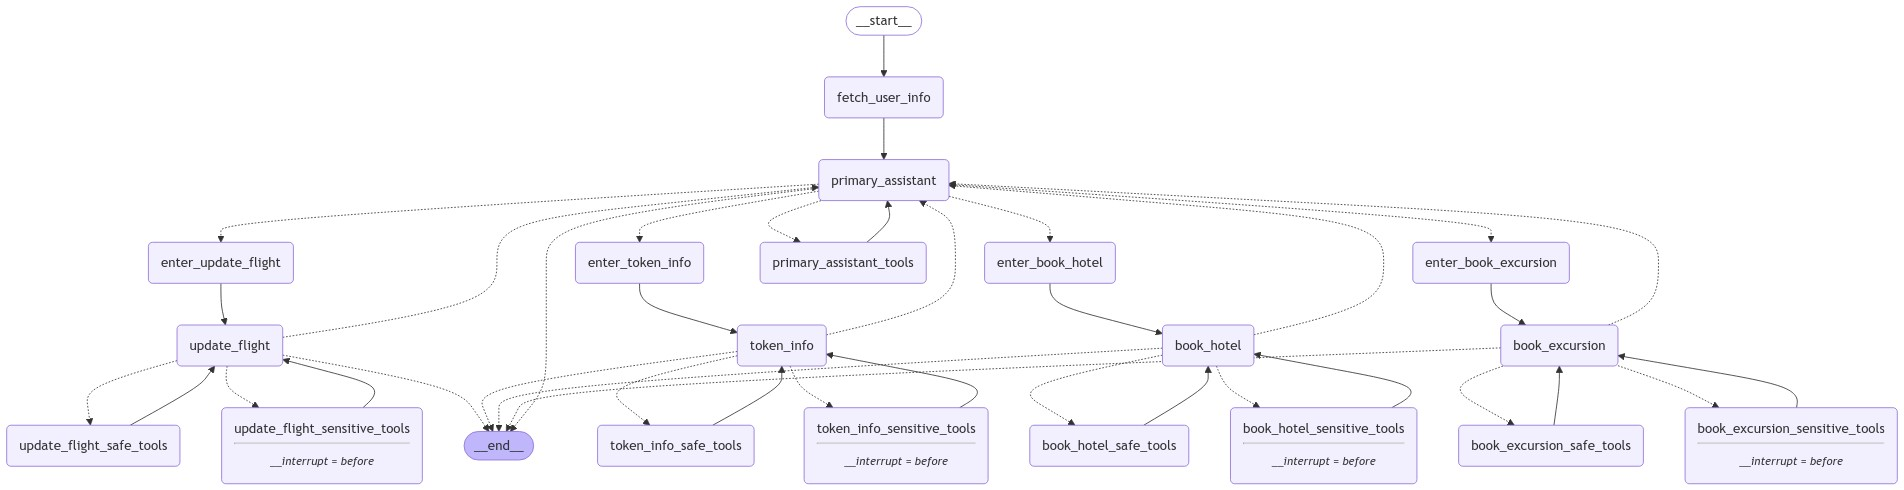
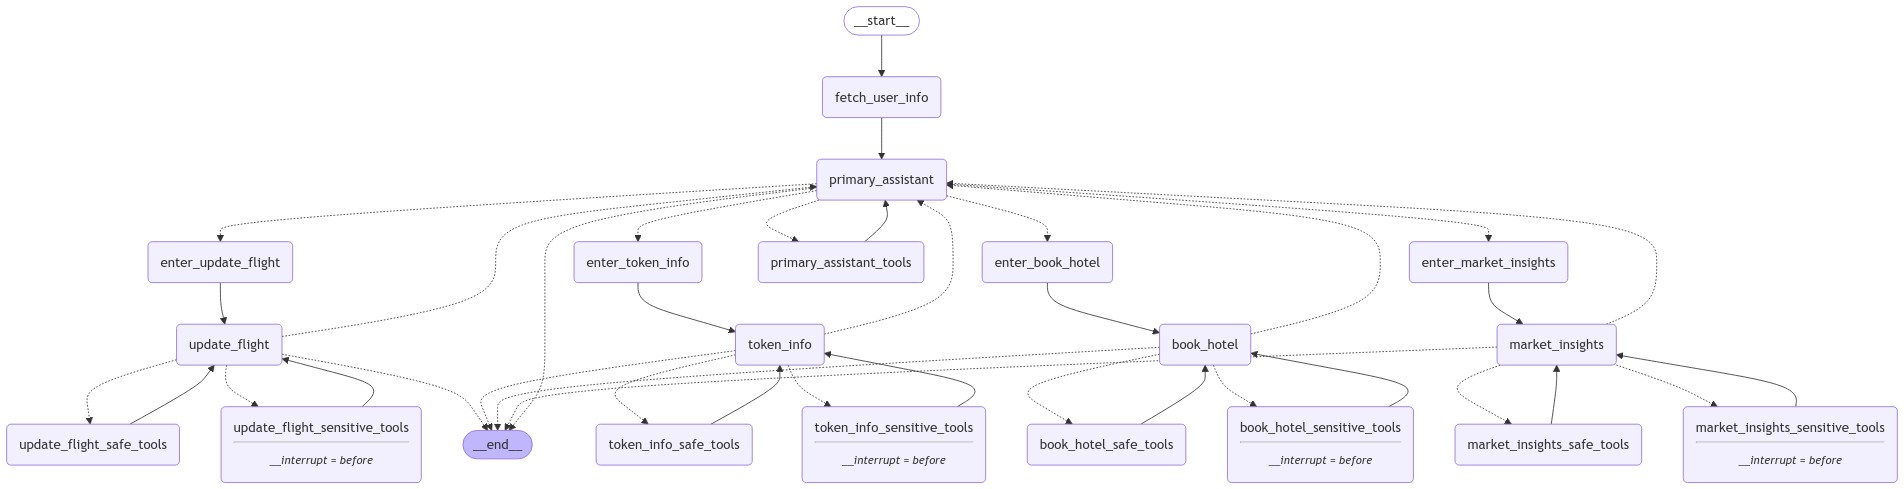
feat: from excursion assistant to market_insights_assistant

diff --git a/customer_support_chat/app/graph.py b/customer_support_chat/app/graph.py
@@ -21,8 +21,8 @@ from customer_support_chat.app.services.assistants.primary_assistant import (
   primary_assistant_tools,
   ToFlightBookingAssistant,
   ToHotelBookingAssistant,
-  ToBookExcursion,
   ToTokenInfoAssistant,
+  ToMarketInsightsAssistant,
 )
 from customer_support_chat.app.services.assistants.flight_booking_assistant import (
   flight_booking_assistant,
@@ -39,10 +39,10 @@ from customer_support_chat.app.services.assistants.hotel_booking_assistant impor
   book_hotel_safe_tools,
   book_hotel_sensitive_tools,
 )
-from customer_support_chat.app.services.assistants.excursion_assistant import (
-  excursion_assistant,
-  book_excursion_safe_tools,
-  book_excursion_sensitive_tools,
+from customer_support_chat.app.services.assistants.market_insights_assistant import (
+  market_insights_assistant,
+  market_insights_safe_tools,
+  market_insights_sensitive_tools,
 )
 
 # Initialize the graph
@@ -171,25 +171,25 @@ builder.add_edge("book_hotel_safe_tools", "book_hotel")
 builder.add_edge("book_hotel_sensitive_tools", "book_hotel")
 builder.add_conditional_edges("book_hotel", route_book_hotel)
 
-# Excursion Assistant
+# Market Insights Assistant
 builder.add_node(
-  "enter_book_excursion",
-  create_entry_node("Trip Recommendation Assistant", "book_excursion"),
+  "enter_market_insights",
+  create_entry_node("Market Insights Assistant", "market_insights"),
 )
-builder.add_node("book_excursion", excursion_assistant)
-builder.add_edge("enter_book_excursion", "book_excursion")
+builder.add_node("market_insights", market_insights_assistant)
+builder.add_edge("enter_market_insights", "market_insights")
 builder.add_node(
-  "book_excursion_safe_tools",
-  create_tool_node_with_fallback(book_excursion_safe_tools),
+  "market_insights_safe_tools",
+  create_tool_node_with_fallback(market_insights_safe_tools),
 )
 builder.add_node(
-  "book_excursion_sensitive_tools",
-  create_tool_node_with_fallback(book_excursion_sensitive_tools),
+  "market_insights_sensitive_tools",
+  create_tool_node_with_fallback(market_insights_sensitive_tools),
 )
 
-def route_book_excursion(state: State) -> Literal[
-  "book_excursion_safe_tools",
-  "book_excursion_sensitive_tools",
+def route_market_insights(state: State) -> Literal[
+  "market_insights_safe_tools",
+  "market_insights_sensitive_tools",
   "primary_assistant",
   "__end__",
 ]:
@@ -200,14 +200,14 @@ def route_book_excursion(state: State) -> Literal[
   did_cancel = any(tc["name"] == CompleteOrEscalate.__name__ for tc in tool_calls)
   if did_cancel:
       return "primary_assistant"
-  safe_toolnames = [t.name for t in book_excursion_safe_tools]
+  safe_toolnames = [t.name for t in market_insights_safe_tools]
   if all(tc["name"] in safe_toolnames for tc in tool_calls):
-      return "book_excursion_safe_tools"
-  return "book_excursion_sensitive_tools"
+      return "market_insights_safe_tools"
+  return "market_insights_sensitive_tools"
 
-builder.add_edge("book_excursion_safe_tools", "book_excursion")
-builder.add_edge("book_excursion_sensitive_tools", "book_excursion")
-builder.add_conditional_edges("book_excursion", route_book_excursion)
+builder.add_edge("market_insights_safe_tools", "market_insights")
+builder.add_edge("market_insights_sensitive_tools", "market_insights")
+builder.add_conditional_edges("market_insights", route_market_insights)
 
 # Primary Assistant
 builder.add_node("primary_assistant", primary_assistant)
@@ -221,7 +221,7 @@ def route_primary_assistant(state: State) -> Literal[
   "enter_update_flight",
   "enter_token_info",
   "enter_book_hotel",
-  "enter_book_excursion",
+  "enter_market_insights",
   "__end__",
 ]:
   route = tools_condition(state)
@@ -236,8 +236,8 @@ def route_primary_assistant(state: State) -> Literal[
           return "enter_token_info"
       elif tool_name == ToHotelBookingAssistant.__name__:
           return "enter_book_hotel"
-      elif tool_name == ToBookExcursion.__name__:
-          return "enter_book_excursion"
+      elif tool_name == ToMarketInsightsAssistant.__name__:
+          return "enter_market_insights"
       else:
           return "primary_assistant_tools"
   return "primary_assistant"
@@ -249,7 +249,7 @@ builder.add_conditional_edges(
       "enter_update_flight": "enter_update_flight",
       "enter_token_info": "enter_token_info",
       "enter_book_hotel": "enter_book_hotel",
-      "enter_book_excursion": "enter_book_excursion",
+      "enter_market_insights": "enter_market_insights",
       "primary_assistant_tools": "primary_assistant_tools",
       END: END,
   },
@@ -261,7 +261,7 @@ interrupt_nodes = [
   "update_flight_sensitive_tools",
   "token_info_sensitive_tools",
   "book_hotel_sensitive_tools",
-  "book_excursion_sensitive_tools",
+  "market_insights_sensitive_tools",
 ]
 
 memory = MemorySaver()

diff --git a/customer_support_chat/app/services/tools/market_insights.py b/customer_support_chat/app/services/tools/market_insights.py
@@ -1,0 +1,49 @@
+from vectorizer.app.vectordb.vectordb import VectorDB
+from customer_support_chat.app.core.settings import get_settings
+from langchain_core.tools import tool
+import requests
+from typing import List, Dict
+import requests
+
+settings = get_settings()
+market_insights_vectordb = VectorDB(table_name="market_insights", collection_name="market_insights_collection")
+
+@tool
+def search_market_insights(
+    query: str,
+    limit: int = 2,
+) -> List[Dict]:
+    """Search for market insights based on a natural language query."""
+    search_results = market_insights_vectordb.search(query, limit=limit)
+
+    insights = []
+    for result in search_results:
+        payload = result.payload
+        insights.append({
+            "id": payload["id"],
+            "title": payload["title"],
+            "category": payload["category"],
+            "keywords": payload["keywords"],
+            "summary": payload["summary"],
+            "chunk": payload["content"],
+            "similarity": result.score,
+        })
+    return insights
+
+@tool
+def get_news() -> dict:
+    """
+    Get the latest news
+    The news is global and is related to the crypto market
+    'project' field indicates the name of the project for each article, or says 'General News' if it is not related to a specific project
+    Each news article has a date it was published
+    If there is a URL link to the news article, relay it to the user
+    """
+    try:
+        req = requests.request("GET",
+                               "https://us-central1-third-opus-411016.cloudfunctions.net/SearchEngineApiV2/get_news")
+        resp = req.json()
+        return resp
+    except Exception as e:
+        print(e)
+        return {"description": "Error fetching news", "error": str(e)}

diff --git a/customer_support_chat/app/services/assistants/primary_assistant.py b/customer_support_chat/app/services/assistants/primary_assistant.py
@@ -8,6 +8,7 @@ from langchain_community.tools.ddg_search.tool import DuckDuckGoSearchResults
 from customer_support_chat.app.services.assistants.assistant_base import Assistant, llm
 from customer_support_chat.app.core.state import State
 from pydantic import BaseModel, Field
+from typing import Optional
 import yaml
 from pathlib import Path
 
@@ -28,10 +29,10 @@ class ToHotelBookingAssistant(BaseModel):
     checkout_date: str = Field(description="The check-out date for the hotel.")
     request: str = Field(description="Any additional information or requests from the user regarding the hotel booking.")
 
-class ToBookExcursion(BaseModel):
-    """Transfers work to a specialized assistant to handle trip recommendation and other excursion bookings."""
-    location: str = Field(description="The location where the user wants to book a recommended trip.")
-    request: str = Field(description="Any additional information or requests from the user regarding the trip recommendation.")
+class ToMarketInsightsAssistant(BaseModel):
+    """Transfers work to a specialized assistant to handle market insights and news related to the crypto market."""
+    query: str = Field(description="The user's query about market insights or crypto news.")
+    specific_token: Optional[str] = Field(default=None, description="The specific cryptocurrency token the user is interested in, if any.")
 
 # Load the system prompt from the YAML file
 prompt_path = Path(__file__).parent / "prompts" / "sp_primary_assistant.yml"
@@ -57,7 +58,7 @@ primary_assistant_tools = [
     ToFlightBookingAssistant,
     ToTokenInfoAssistant,
     ToHotelBookingAssistant,
-    ToBookExcursion,
+    ToMarketInsightsAssistant,
 ]
 
 # Create the primary assistant runnable

diff --git a/customer_support_chat/app/services/assistants/market_insights_assistant.py b/customer_support_chat/app/services/assistants/market_insights_assistant.py
@@ -1,0 +1,38 @@
+from datetime import datetime
+from langchain_core.prompts import ChatPromptTemplate
+from customer_support_chat.app.services.tools.market_insights import (
+    search_market_insights,
+    get_news,
+)
+from customer_support_chat.app.services.assistants.assistant_base import Assistant, CompleteOrEscalate, llm
+import yaml
+from pathlib import Path
+
+# Load the system prompt from the YAML file
+prompt_path = Path(__file__).parent / "prompts" / "sp_market_insights_assistant.yml"
+with open(prompt_path, "r") as f:
+    prompt_data = yaml.safe_load(f)
+
+# Market Insights assistant prompt
+market_insights_prompt = ChatPromptTemplate.from_messages(
+    [
+        (
+            "system",
+            prompt_data["system_prompt"],
+        ),
+        ("placeholder", "{messages}"),
+    ]
+).partial(time=datetime.now())
+
+# Market Insights tools
+market_insights_safe_tools = [search_market_insights, get_news]
+market_insights_sensitive_tools = []
+market_insights_tools = market_insights_safe_tools + market_insights_sensitive_tools
+
+# Create the market insights assistant runnable
+market_insights_runnable = market_insights_prompt | llm.bind_tools(
+    market_insights_tools + [CompleteOrEscalate]
+)
+
+# Instantiate the market insights assistant
+market_insights_assistant = Assistant(market_insights_runnable)

diff --git a/customer_support_chat/app/services/assistants/__init__.py b/customer_support_chat/app/services/assistants/__init__.py
@@ -4,8 +4,8 @@ from .primary_assistant import (
     primary_assistant_tools,
     ToFlightBookingAssistant,
     ToHotelBookingAssistant,
-    ToBookExcursion,
     ToTokenInfoAssistant,
+    ToMarketInsightsAssistant,
 )
 from .flight_booking_assistant import (
     flight_booking_assistant,
@@ -17,10 +17,10 @@ from .hotel_booking_assistant import (
     book_hotel_safe_tools,
     book_hotel_sensitive_tools,
 )
-from .excursion_assistant import (
-    excursion_assistant,
-    book_excursion_safe_tools,
-    book_excursion_sensitive_tools,
+from .market_insights_assistant import (
+    market_insights_assistant,
+    market_insights_safe_tools,
+    market_insights_sensitive_tools,
 )
 from .token_info_assistant import (
     token_info_assistant,

diff --git a/customer_support_chat/app/services/tools/__init__.py b/customer_support_chat/app/services/tools/__init__.py
@@ -16,11 +16,8 @@ from .hotels import (
     update_hotel,
     cancel_hotel,
 )
-from .excursions import (
-    search_trip_recommendations,
-    book_excursion,
-    update_excursion,
-    cancel_excursion,
+from .market_insights import (
+    get_news
 )
 
 __all__ = [
@@ -35,7 +32,6 @@ __all__ = [
     "update_hotel",
     "cancel_hotel",
     "search_trip_recommendations",
-    "book_excursion",
-    "update_excursion",
-    "cancel_excursion",
+    "get_summary",
+    "get_news",
 ]

diff --git a/customer_support_chat/app/core/state.py b/customer_support_chat/app/core/state.py
@@ -19,7 +19,9 @@ class State(TypedDict):
                 "assistant",
                 "update_flight",
                 "book_hotel",
-                "book_excursion",
+                "get_token_info",
+                "get_news",
+                "get_summary",
             ]
         ],
         update_dialog_stack,
